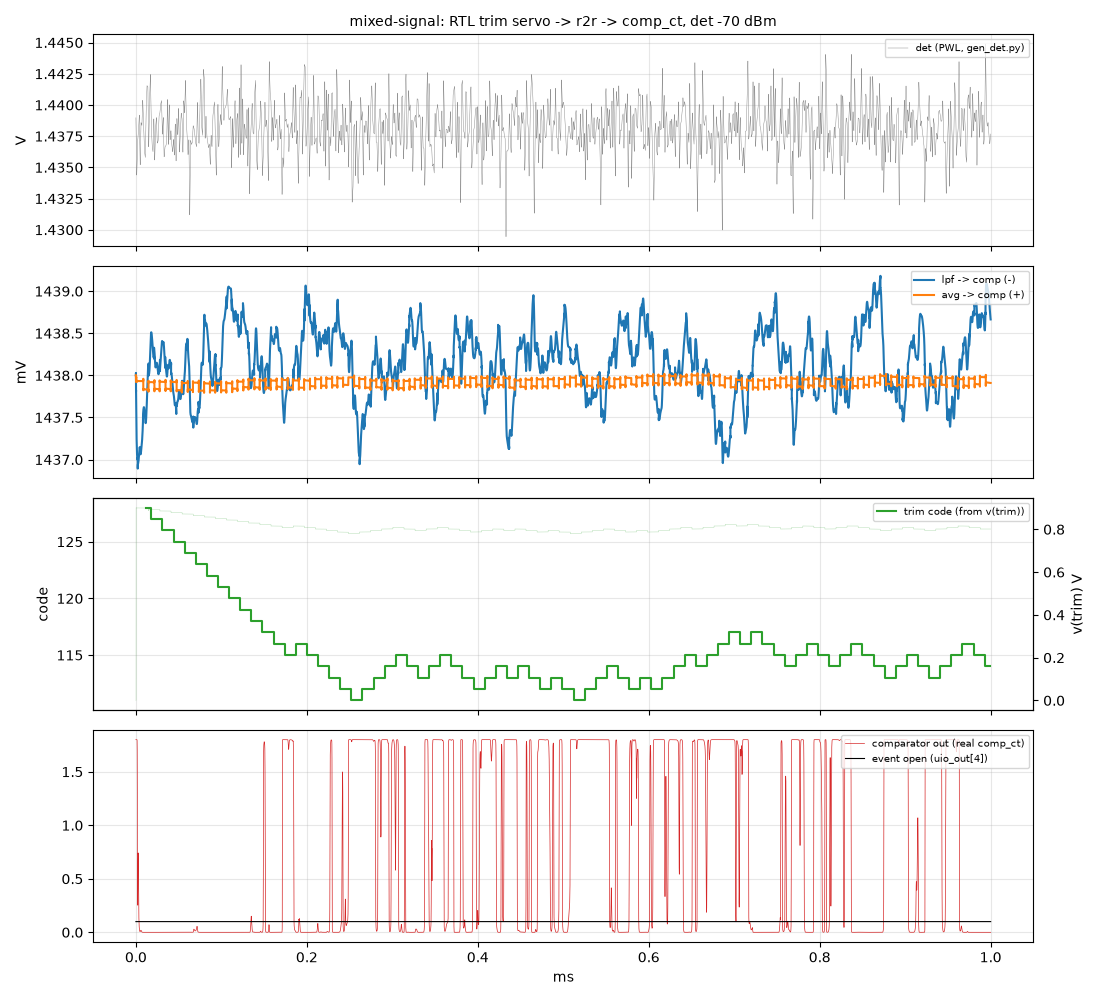
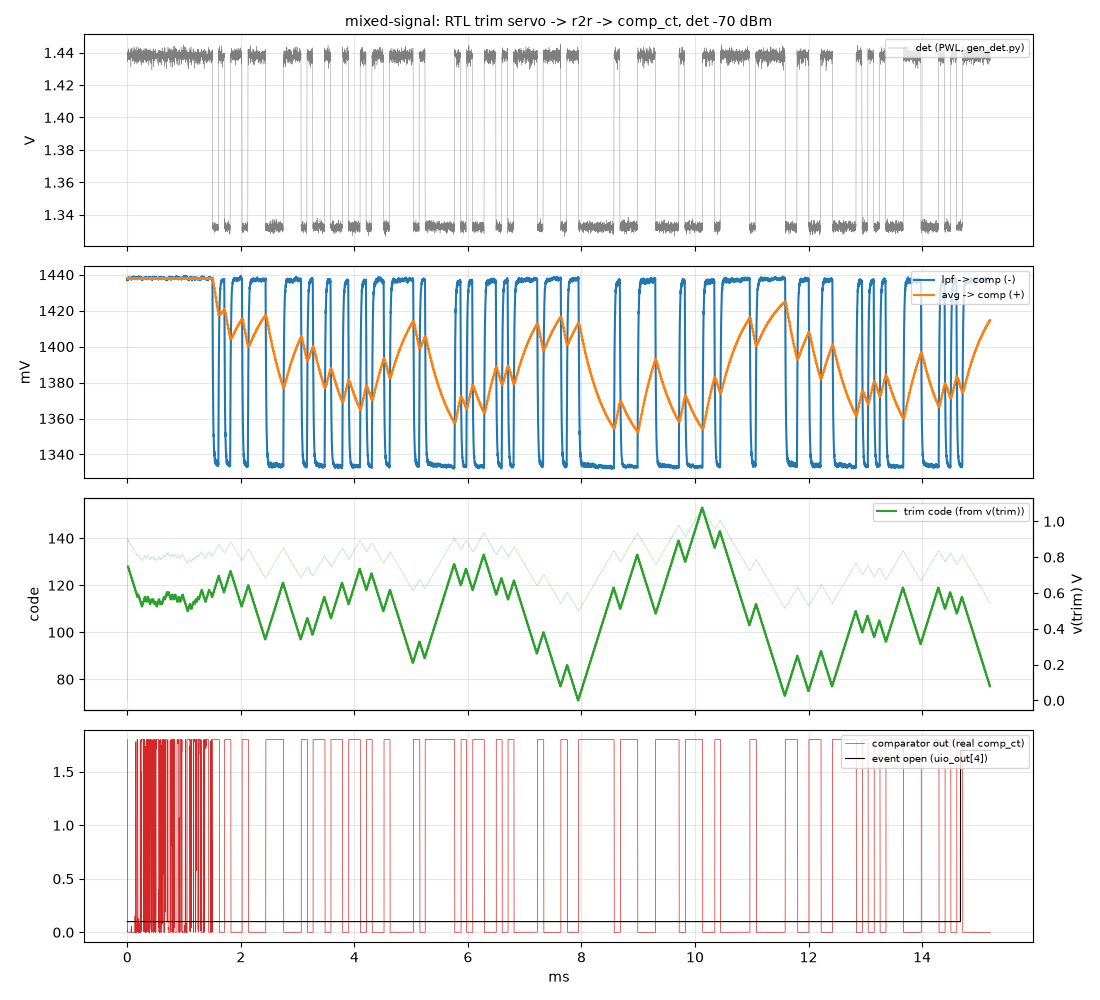
STATUS: clock gating + GL 15/15, mixed-signal servo results (-70/-94 detected, pin order verified), next steps
Claude-Session: https://claude.ai/code/session_01KqF5gVHdyVCY8Do9kTrPsx

diff --git a/sim/mixed/plot_mixed.py b/sim/mixed/plot_mixed.py
@@ -4,8 +4,9 @@ servo driving the real r2r ladder into the real comparator.
 
 Checks (pin order of the d_cosim .so, end to end):
   - rx_en = 1 (RX role);
-  - v(trim) sits on the ladder's code grid (code / 256 x 1.8 V) between steps;
-  - the code starts at 128 after reset and every servo step is exactly +-1 LSB.
+  - the code starts at 128 after reset;
+  - every settled change of v(trim) is exactly +-1 LSB (1.8/256 V), one per servo
+    tick (13 us): a reversed or shifted trim bus would give other step sizes.
 Prints the servo's convergence and dither statistics, the comparator's duty
 cycle and the event / LED pins; plots det, lpf / avg, trim (code), comp.
 
@@ -33,18 +34,29 @@ def main(level):
     t = np.real(v['time'])
     g = lambda k: np.real(v[k])
     det, lpf, avg, comp, trim = g('v(det)'), g('v(lpf)'), g('v(avg)'), g('v(comp)'), g('v(trim)')
-    # sample the trim mid-way between servo ticks (the ladder + 1 pF settle in ~50 ns)
-    ts = np.arange(5e-6, t[-1], SAMPLE) + SAMPLE / 2
-    vt = np.interp(ts, t, trim)
-    code = vt / LSB
-    err = np.abs(code - np.round(code)) * LSB * 1e3
-    steps = np.diff(np.round(code))
+    # every settled change of the ladder code (value 1 us after the change, once the
+    # ladder + 1 pF have settled): the servo steps on every tick, so these must all
+    # be +-1 LSB, about one per 13 us sample
+    code_all = np.round(trim / LSB)
+    steps, last = [], code_all[np.searchsorted(t, 5e-6)]
+    for i in np.nonzero(np.diff(code_all))[0]:
+        j = np.searchsorted(t, t[i] + 1e-6)
+        if t[i] < 4e-6 or j >= len(t):
+            continue
+        if code_all[j] != last:
+            steps.append(code_all[j] - last)
+            last = code_all[j]
+    steps = np.array(steps)
+    n_ticks = int((t[-1] - 2e-6) / SAMPLE)
+    ts = np.arange(5e-6, t[-1], SAMPLE) + SAMPLE / 2          # for the plot / statistics
+    code = np.interp(ts, t, trim) / LSB
     rx_en = np.interp(10e-6, t, g('v(rx_en_a)'))
-    print(f'{level} dBm, {t[-1] * 1e3:.2f} ms simulated, {len(ts)} servo samples')
+    print(f'{level} dBm, {t[-1] * 1e3:.2f} ms simulated, {n_ticks} servo ticks')
     print(f'  pin-order checks: rx_en = {rx_en:.2f} V (expect 1.8); first code {np.round(code[0]):.0f} '
-          f'(expect 128); max off-grid {err.max():.3f} mV (< 1 = on the code grid); '
-          f'steps in {{-1, 0, +1}}: {set(np.unique(steps).astype(int))}')
-    ok = abs(rx_en - 1.8) < 0.1 and round(code[0]) == 128 and err.max() < 1 and set(np.unique(steps)) <= {-1, 0, 1}
+          f'(expect 128); {len(steps)} settled ladder steps (expect ~{n_ticks}), sizes '
+          f'{sorted(set(steps.astype(int)))} (expect -1 / +1 only)')
+    ok = (abs(rx_en - 1.8) < 0.1 and round(code[0]) == 128 and set(steps.astype(int)) <= {-1, 1}
+          and abs(len(steps) - n_ticks) <= 3)
     print('  ->', 'PIN ORDER OK' if ok else 'PIN ORDER PROBLEM')
     c = np.round(code)
     settle = np.argmax(np.abs(np.diff(c[:200])) > 0) if len(c) > 1 else 0

diff --git a/STATUS.md b/STATUS.md
@@ -1,63 +1,92 @@
 # Where we are (handoff, end of 2026-10-08)
 
 Read **PLAN.md** for the decisions and their evidence. This file is the "pick up from here" note: the summary and next steps first, per-block detail below.
-Repo: github.com/mattvenn/ook-asic-radio (`main`, pushed).
+Repo: github.com/mattvenn/ook-asic-radio (`main`; **the commits from 2026-10-08 afternoon are not pushed**).
 
 ## Start here
 
-**State (end of 2026-10-08):**
-- **RX:** every analog block has a working first pass at tt, transistor level: pad → 6-stage NMOS diff-pair limiting chain → successive-detection log detector → 14 kHz RC LPF → switched-cap average (τ 0.47 ms) → continuous comparator with DAC trim.
-  - The bit-exact digital detects a −94 dBm burst (score 99/127, threshold 97): **right at the edge.** −70 dBm is clean.
-  - Plots: `sim/plots/rx_rf.png`, `rx_bb.png`.
-  - **The fully joined transistor-level run (antenna → comparator, RF noise, −70 dBm) matches the split model** (2026-10-08, below).
-- **TX: xschem blocks done** (`xschem/gen/tx.py`: `tx_ring`, `tx_ls`, `tx_drv`, `tx_top`, `tb_tx`; run `sim/tx/tb_tx.py [corners]`): ring (nand + 22 inv_2) → skewed level shifter → thick NAND-gated tapers → antiphase drivers → pad → dipole. **+3.7…+3.9 dBm at all five corners**; ~420 MHz expected on silicon. Off: both arms low. Single-ended fallback built in (en_n = 0).
-- **Area:** fits a **3x2** (available) with the digital as is. Clock gating is the first lever if space runs short.
-- **PLAN.md was brought up to date on 2026-10-08** (architecture, block table, open risks).
-- RTL done (not resized); layout not started.
+**State (end of 2026-10-08): pre-layout work done; layout not started.**
+- **RX:** every block is transistor level with real PDK passives and a real bias generator.
+  - Chain: pad → 6-stage NMOS diff-pair limiting chain.
+  - Detector: successive-detection log detector → 14 kHz RC LPF (2.95 MΩ / 3.7 pF).
+  - Comparator side: switched-cap average (τ ~0.45 ms) → continuous comparator; trim from the reused R2R ladder, driven by the RTL servo.
+  - **Confirmed three ways:** the fully joined transistor-level run (antenna → comparator) matches the split model. Corners 10–50 °C give a worst case of **≈ −92…−93 dBm**. And the **mixed-signal run** (RTL servo → real `r2r` → real `comp_ct`) detects −70 and −94 dBm bursts.
+- **TX:** xschem blocks, +3.7…+3.9 dBm at all corners, both arms low when off, single-ended fallback (`tx_en_n`). VAPWR decap ~50 pF.
+- **Digital:** **clock-gated** (`rd_cg.v`, one `sky130_fd_sc_hd__dlclkp_1` per 127-bit chip register), hardened with LibreLane at **260 × 190 µm**.
+  - Signoff clean (DRC, LVS, antenna 0; timing met at all corners).
+  - **RTL suite 15/15 and gate-level suite 15/15** on the hardened netlist (`make GL=1`).
+- **Top level:** `radio_analog` (all analog blocks + bias + decap) and the `tt_um_mattvenn_radio` schematic; ua[0]/[1] TX, ua[2]/[3] RX, ua[4] debug (det via a debug-only TG).
+- **Area** (`sim/area/area_netlist.py`): the analog needs ~49k µm² of the ~57k left beside the macro in the 3x2 (493 × 226 µm): **85 %**, 93 % of the tile. The VAPWR decap (~18k µm²) is the biggest block.
+- **Operating range 10–50 °C only.**
 
-**The joined overnight run (done 2026-10-08 12:08, 14.3 h):** the fully joined transistor-level RX at −70 dBm (antenna → comparator, with RF noise, 400 µs, real chip timing; `sim/rx/joined.sh`). Plot: `sim/rx/plot_joined.py -70` → `sim/plots/rx_joined.png`.
+**Changed since the last simulations (schematic only, not re-simulated yet):**
+- comparator `rdeg` 1.4 → 2 MΩ, to bring the trim step back to ~0.075–0.107 mV/LSB. The e2e model showed 0.15 mV/LSB (the ss/fs corners) dropping −94 dBm from 10/12 to 4/12;
+- `decap_vapwr` / `decap_vdpwr` added to `radio_analog` (capacitance per unit is estimated from oxide thickness).
+
+**Next steps, in order:**
+1. **Re-verify the schematic changes** (sims): `tb_comp` (trim range and step with rdeg 2 MΩ), e2e with the new step, AC on the two decap blocks (are they ~50 / ~30 pF?), and re-run `tb_radio_analog`.
+2. **Chain stability check:** `sim/chain/stability.sh` (written, not run). Real supply/ground L + Cdec + 0–1 fF output→input coupling; kick + AC. It sets layout rules for the chain.
+3. **Floorplan** (with Matt):
+   - the macro at the right of the tile (the pin order assumes it), the analog on the left next to the ua pins;
+   - analog block placement, decap, guard rings;
+   - TX away from the RX input; deep n-well for the RX chain or not.
+4. **Layout + integration in the 3x2.** Switch `mag/Makefile` to `tt_analog_3x2_3v3.def`, `make start`, place the hardened macro (`openlane/radio_digital/runs/cg_260x190`).
+5. Not blocking: overload recovery (key a −10 dBm tone), TX at 10/50 °C, the −90 dBm joined run, the max-slew warnings in the harden (marginal, mostly ss).
+
+**Parked:** 63-chip Gold code (e2e first), tnt's `rf_top` SRAM (if data mode needs buffers), dipole tuning (wait for real radios), wire-as-matching antenna idea, SDR bench tests (not needed).
+
+## Clock gating + gate-level tests (2026-10-08)
+- **`rd_cg.v`:** `sky130_fd_sc_hd__dlclkp_1` (latch-based ICG; silicon evidence from TT08 #770). Under `ifdef SIM` it's a behavioural latch + AND, for RTL cocotb and the mixed-signal build.
+- **`rd_corr.v`:** sr0..sr3 are clocked by `gclk0..3 = clk & en0..3`, with the same enables as before (shift on a window end, the 127-clock rotation, the post-reset clear). That removes 508 enable muxes.
+- **Harden:**
+
+| run | die (µm) | std cells | hold buffers | util | result |
+|---|---|---|---|---|---|
+| pins_300x210 (no gating) | 300 × 210 | 40.6k µm² | 841 | 75 % | clean |
+| cg_300x210 | 300 × 210 | 32.5k | 638 | 60 % | clean |
+| **cg_260x190** | **260 × 190** | 31.7k | 637 | 77 % | **clean**: setup ≥ 26.7 ns, hold ≥ 0.11 ns (all corners), 0 DRC / LVS / antenna |
+
+  - CTS builds a tree after each gate (clock buffers 1.5k → 2.2k µm²). The 4 dlclkp cells are in the netlist.
+- **Gate-level simulation:** `cd verilog/test && PATH=$HOME/work/asic-workshop/venv/bin:/usr/bin:/bin GL=1 SIM_BUILD=sim_build_gl COCOTB_RESULTS_FILE=results_gl.xml make` (~35 min).
+  - It uses the hardened `nl.v` (default `runs/cg_260x190`; override `GL_NETLIST`) plus the cell models in `build/gl_models/`, copied from the image's PDK (command in the Makefile). Flags: `-DFUNCTIONAL -DUNIT_DELAY=#1`.
+  - **15/15 pass**: all 9 RX vectors (trim code checked at every sample, events and toggles), the TX codes, straps and phases.
+  - In GL mode the tests use pins only: event close = falling edge of `uio_out[4]`, score = the 7-seg digit, LED = DP. Two TX checks that read internal signals are skipped. `PINMON=1` runs the pin monitors on RTL; they agree with the internal ones.
+
+## Mixed-signal: the RTL servo on the real analog (sim/mixed/, 2026-10-08)
+- **Build:** `tools/osic bash sim/mixed/build_so.sh` verilates the RTL (with `SIM`) into `build/mixed/radio_digital.so` for an XSPICE `d_cosim` instance.
+  - This is ngspice's `vlnggen` redone in bash: the image's ngspice lowercases the script's shell lines, and Verilator 5.048 rejects `-mdir`.
+- **Deck:** `python sim/mixed/gen_mixed.py <level> [tstop]` writes `build/mixed/mixed_<level>.cir`.
+  - **The d_cosim port list is generated from the build's `inputs.h` / `outputs.h`**: header order, each bus MSB first, as `verilator_shim.cpp` maps them. Every bit gets its own node name (`trim_out_7 … trim_out_0`), so the list can't drift from the .so. (Outputs come in port-declaration order, e.g. `rx_en` first, not the order you'd guess.)
+  - Analog: det (`build/det_<level>.inc` from `sim/rx/gen_det.py`) → `lpf_rc` → `avg_sc` (sc_phi from the RTL) → `comp_ct` (trim = `r2r`(trim_out) + 1 pF) → comp_in. The comparator bias is ideal (1 µA); the subcircuits come from the `radio_analog` netlist.
+- **Run** in the osic image from `build/mixed`: `ngspice -b mixed_<level>.cir` (15.2 ms ≈ 14 min alone). **Analyse:** `python sim/mixed/plot_mixed.py <level>` → `sim/plots/mixed_<level>.png`.
+  - **Pin-order check:** rx_en high; the code starts at 128; every settled ladder change is exactly ±1 LSB, one per 13 µs tick. A reversed or shifted bus would give other step sizes.
+- **Results** (comparator with rdeg 1.4 MΩ, i.e. before the change):
+
+| det | pin order | servo | event pin (uio_out[4]) |
+|---|---|---|---|
+| −70 dBm | OK (1169 steps, all ±1) | 128 → ~114 in 0.25 ms (trims ~1.75 mV of real comparator offset); during the burst it wanders ±40 codes chasing 50 % ones over long chip runs (harmless: the 100 mV swing dwarfs the ±10 mV trim) | opens at the end of the 127-chip burst (14.68 ms) |
+| −94 dBm | OK (1171 steps, all ±1) | dithers 105–122 around ~113 (std 3.2 LSB ≈ 0.4 mV) on the detector noise | **opens (14.67 ms): the burst is detected in the real loop** |
+
+- One burst per run, so no LED toggle (that needs 2 of 3 bursts).
+
+**How to run things:**
+- cocotb: `cd verilog/test && PATH=$HOME/work/asic-workshop/venv/bin:/usr/bin:/bin make` (~12 min); gate level: add `GL=1 SIM_BUILD=sim_build_gl COCOTB_RESULTS_FILE=results_gl.xml` (~35 min). Run it as `bash -c 'cd verilog/test && …'`: `make -C` breaks the Makefile's `$(PWD)`, and a backgrounded `cd` may not stick. With the login PATH, oss-cad-suite's python (no numpy) gets picked up and the run dies at import. `COCOTB_TEST_FILTER` takes one test name (a `|` alternative matched nothing).
+- Generators: `python3 xschem/gen/<x>.py`. Netlist: `tools/osic bash -c 'xschem -n -s -q -o build xschem/<tb>.sch'` (grep the netlist for `IS MISSING`).
+- Simulate in `build/` via `tools/osic`. Analysis/plots: `~/work/asic-workshop/venv/bin/python` (system python has no numpy).
+- `tools/osic` copies the tracked root `.spiceinit` into `build/` each run.
+- **Don't run ngspice processes in parallel** (each uses 8 threads), and **don't edit a script while it's running**.
+- **All the xschem/ngspice traps and speed lessons are in `docs/sim_learnings.md`.** Read that before writing a new testbench.
+
+## Joined overnight run (done 2026-10-08 12:08, 14.3 h)
+The fully joined transistor-level RX at −70 dBm: antenna → comparator, RF noise, 400 µs, real chip timing (`sim/rx/joined.sh`). Plot: `sim/rx/plot_joined.py -70` → `sim/plots/rx_joined.png`. (Ideal passives and bias, as of then.)
 
 | −70 dBm | det off | det on | det swing | LPF noise, signal off (1 µs det std) |
 |---|---|---|---|---|
 | joined (transistor level) | 1.4411 V | 1.3407 V | **100.4 mV** | **0.52 mV** rms (1.88 mV) |
 | split model (gen_det.py) | 1.4381 V | 1.3325 V | 105.6 mV | 0.59 mV rms (2.12 mV) |
 
-- Swing −5 % (~0.4 dB at 12.6 mV/dB); noise-only fluctuation, which is what sets −94 dBm, within ~10 %. The comparator follows the chips, and avg / trim behave as in the split runs. **RX first pass confirmed.**
-- With the signal on, the LPF noise is higher in the joined run (1.06 vs 0.52 mV). That's irrelevant at a 100 mV swing, and statistically thin (2 × 64 µs).
-- **Optional −90 run, shorter** (would check the near-sensitivity regime directly):
-  ```
-  tools/longrun joined90 tools/osic bash -c 'cd build && LEVELS=-90 TSTOP=250u ../sim/rx/joined.sh'
-  ```
-  ~6–10 h, keeps the PC awake.
-
-**Next steps, in order:**
-1. ~~Joined-run check~~ (done: matches). ~~TX into xschem blocks~~ (done, "TX xschem blocks" below).
-1b. ~~ua[4] debug~~ (done 2026-10-08: det via a debug-only transmission gate, `dbg_en` strap).
-2. ~~Digital for the TX enables~~ (done 2026-10-08): `radio_digital` has a new output `tx_en_n` (= `tx_en` unless single-ended); `tx_en` drives both the ring `key` and `en_p`. The single-ended strap is `uio_in[3]`, latched at reset only with the `1010` magic. **Full cocotb suite 14/14 pass** (incl. the new `test_single_ended_strap`; run with the project venv first on PATH, see below). Not re-hardened.
-3. **Corners and temperature, whole design** (the main open risk):
-   - **Operating range is 10–50 °C only** (decided 2026-10-08): no design effort for extremes.
-   - RX gain, NF, detector slope, comparator offset/trim range, and −94 dBm margin at ss/ff/sf/fs, 10 / 27 / 50 °C. **Running** (`sim/corners/rx_corners.sh`, table: `sim/corners/rx_corners.py`); results in "RX corners" below.
-   - Caveat: the chain and detector R/C are still ideal (`devices/res`, `devices/capa`), and bias is ideal, so this is MOS variation only. Converting them to poly/MIM (and a bias whose gm tracks the load poly) belongs to step 4.
-   - TX: process corners done (`sim/tx/tb_tx.py`); 10/50 °C still to do.
-   - Use `option temp` after `reset` (see `docs/sim_learnings.md`).
-4. **Make the analog real:**
-   - ~~real passives in chain + detector~~, ~~bias generator with power-down on rx_en~~ (done 2026-10-08, below); integrate bias_gen at the top;
-   - ~~VAPWR decoupling + bond-wire droop~~ (done: ~50 pF on VAPWR, below);
-   - ~~hook up the R2R DAC~~ (done: `r2r` schematic matching the reused layout, driven from `trim_out`, below);
-   - overload recovery.
-   - ~~analog top schematic~~ (done 2026-10-08: `radio_analog`, `tt_um_mattvenn_radio`, `tb_radio_analog`, below).
-5. **RTL:** the full suite now passes (15/15, 2026-10-08); re-hardened with LibreLane (below). The digital size stays as is unless space is needed (then clock gating).
-6. **Layout + integration in a 3x2** (PLAN phase 4). Switch the template from 2x2 to 3x2.
-
-**Parked:** 63-chip Gold code (e2e first), tnt's `rf_top` SRAM (if data mode needs buffers), dipole tuning (wait for real radios), wire-as-matching antenna idea, SDR bench tests (not needed).
-
-**How to run things:**
-- cocotb: `cd verilog/test && PATH=$HOME/work/asic-workshop/venv/bin:/usr/bin:/bin make` (~12 min). With the login PATH, oss-cad-suite's python (no numpy) gets picked up and the run dies at import. `COCOTB_TEST_FILTER` takes one test name (a `|` alternative matched nothing).
-- Generators: `python3 xschem/gen/<x>.py`. Netlist: `tools/osic bash -c 'xschem -n -s -q -o build xschem/<tb>.sch'` (grep the netlist for `IS MISSING`).
-- Simulate in `build/` via `tools/osic`. Analysis/plots: `~/work/asic-workshop/venv/bin/python` (system python has no numpy).
-- `tools/osic` copies the tracked root `.spiceinit` into `build/` each run.
-- **Don't run ngspice processes in parallel** (each uses 8 threads), and **don't edit a script while it's running**.
-- **All the xschem/ngspice traps and speed lessons are in `docs/sim_learnings.md`.** Read that before writing a new testbench.
+- Swing −5 % (~0.4 dB at 12.6 mV/dB). The noise-only fluctuation, which is what sets −94 dBm, is within ~10 %. **RX first pass confirmed.**
+- Optional −90 run: `tools/longrun joined90 tools/osic bash -c 'cd build && LEVELS=-90 TSTOP=250u ../sim/rx/joined.sh'` (~6–10 h).
 
 ## Done
 - **Phase 0 bench** (bench/, results in PLAN.md): the ring osc as an OOK TX, path loss, drift, keying, phase noise, recorded packets, antenna test.
@@ -399,7 +428,7 @@ Ring (nand2_2 + 22 inv_2, 3.2 fF/stage) → thin W 9/3 inverter (the load the ri
   - Next levers: clock-gate the digital's chip registers (~8–10k with fewer hold buffers); VAPWR decap 50 → 30 pF (~5k, ripple 0.05 → ~0.15 V); bias mirrors with fewer, wider units (~1.5k).
 - `sim/logdet/transfer_cw.txt` is an old curve (~40 mV below the current detector in the mid range). `gen_det.py` / `plot_joined.py` use it with their calibrated −3.8 dB shift, so it's left as is.
 
-## Digital re-harden (LibreLane v3, openlane/radio_digital/config.json, 2026-10-08)
+## Digital re-harden (LibreLane v3, openlane/radio_digital/config.json, 2026-10-08; before clock gating, see "Clock gating" above for the final 260 × 190)
 - **Run:** `tools/longrun harden tools/osic bash -c 'cd openlane/radio_digital && librelane --pdk sky130A --run-tag <tag> --overwrite config.json'` (~5–10 min).
   - `config.json` replaces the OpenLane 1 `config.tcl` (kept for reference). The root Makefile's `harden` target is still the OpenLane 1 flow and doesn't work here.
 - **Synthesis:** 27,704 µm² of cells, 55 % flip-flops (717).
@@ -467,7 +496,7 @@ Ring (nand2_2 + 22 inv_2, 3.2 fF/stage) → thin W 9/3 inverter (the load the ri
   - VDD ripple: the trim pair compares the DAC against its own VDD/2, so what's left is (code/256 − ½) = 0.027 at the operating code (~135). Through the trim gain (~1/56) that's < 1 µV per mV of ripple at the comparator input: no filtering needed beyond a small MIM on `trim` against clock-edge spikes (add at the top level).
   - The digital's output drivers (~hundreds of Ω) sit in series with the 21 kΩ 2R legs: ~1–2 LSB of DNL at the major transitions (0.25 mV of trim). Fine for the servo. When re-hardening, use balanced, strong buffers on `trim_out`.
 
-## ua[4] debug switch## ua[4] debug switch (xschem/gen/dbg.py, done 2026-10-08)
+## ua[4] debug switch (xschem/gen/dbg.py, done 2026-10-08)
 - **`dbg_tg`:** thin transmission gate (N W 2, P W 4, L 0.15, local inverter) from `det` to the ua[4] pad. `dbg_en` comes from the digital: magic `1010` + `uio_in[2]` = 1 at reset (cocotb `test_debug_strap`). Default off.
   - Raw TX + debug together works, but `uio_in[2]` = 1 during reset then also keys the TX until reset is released.
 - **`tb_dbg`** (det as 8 kΩ ∥ 5 pF, pad_model, pin source; tt):
@@ -492,7 +521,7 @@ Two halves, both transistor level (a 13 ms burst at 434 MHz can't be simulated i
   - all three bursts / LED toggle (one burst only);
   - corners.
 
-## Area ballpark (sim/area_estimate.py, updated 2026-10-08 with TX, DAC, bias)
+## Area ballpark (sim/area_estimate.py; superseded by sim/area/area_netlist.py, see "Area and the cap shrink")
 - Analog, all blocks now first-passed: devices ~15,700 µm² (×2.5 routing; ring and R2R ladder from measured layouts: 228 µm² for 19 stages, 3,864 µm² for the ladder) + MIM ~21,300 µm² (28 % of a 2x2; can't overlap the digital).
 - **2x2:** ~102 % with the digital as is (40,500 µm² placed); **~79 %** with the RTL size reduction (~23,000 µm²). Both before decap, guard rings and power routing.
 - **3x2** (~113,000 µm²): ~68 % / ~53 %.
